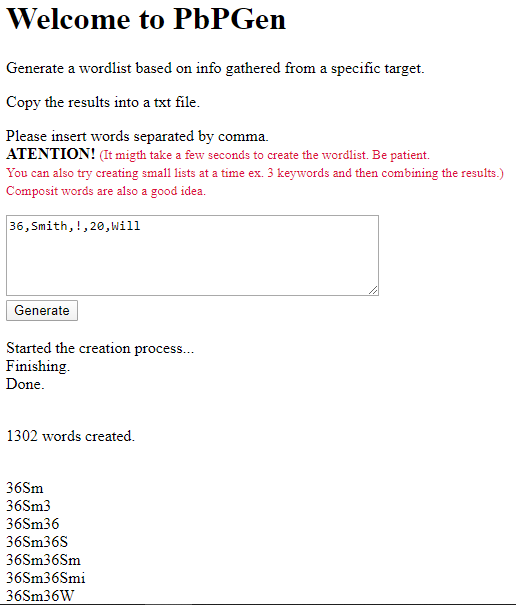
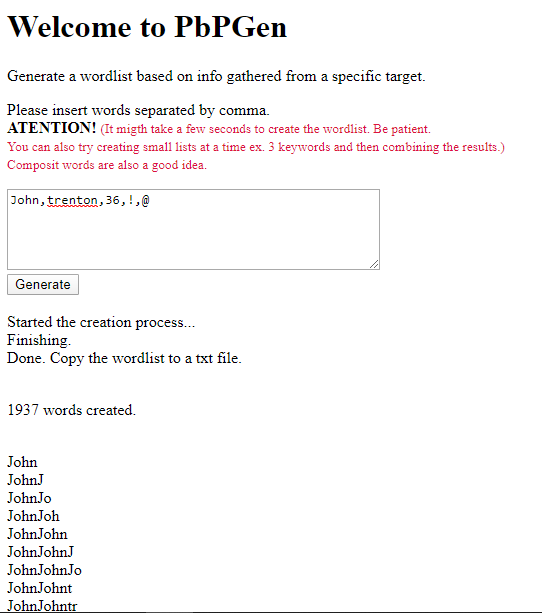
updated image and index file

Changed region(s): [[0.0, 0.0893, 0.9612, 0.6843], [0.0, 0.714, 0.2791, 1.0], [0.0, 0.0, 0.5581, 0.0595]]

diff --git a/main.js b/main.js
@@ -29,7 +29,7 @@ function process(formData){
     document.getElementById("word-count").innerHTML = result.length + " words created.";
 
     console.log("Done")
-    document.getElementById("log").innerHTML +=  log +"Done."
+    document.getElementById("log").innerHTML +=  log +"Done. Copy the wordlist to a txt file."
 
 
     return result;

diff --git a/index.html b/index.html
@@ -10,7 +10,6 @@
 
 <h1>Welcome to PbPGen</h1>
 <p>Generate a wordlist based on info gathered from a specific target.</p>
-<p>Copy the results into a txt file.</p>
 
 <form id="form">
 
